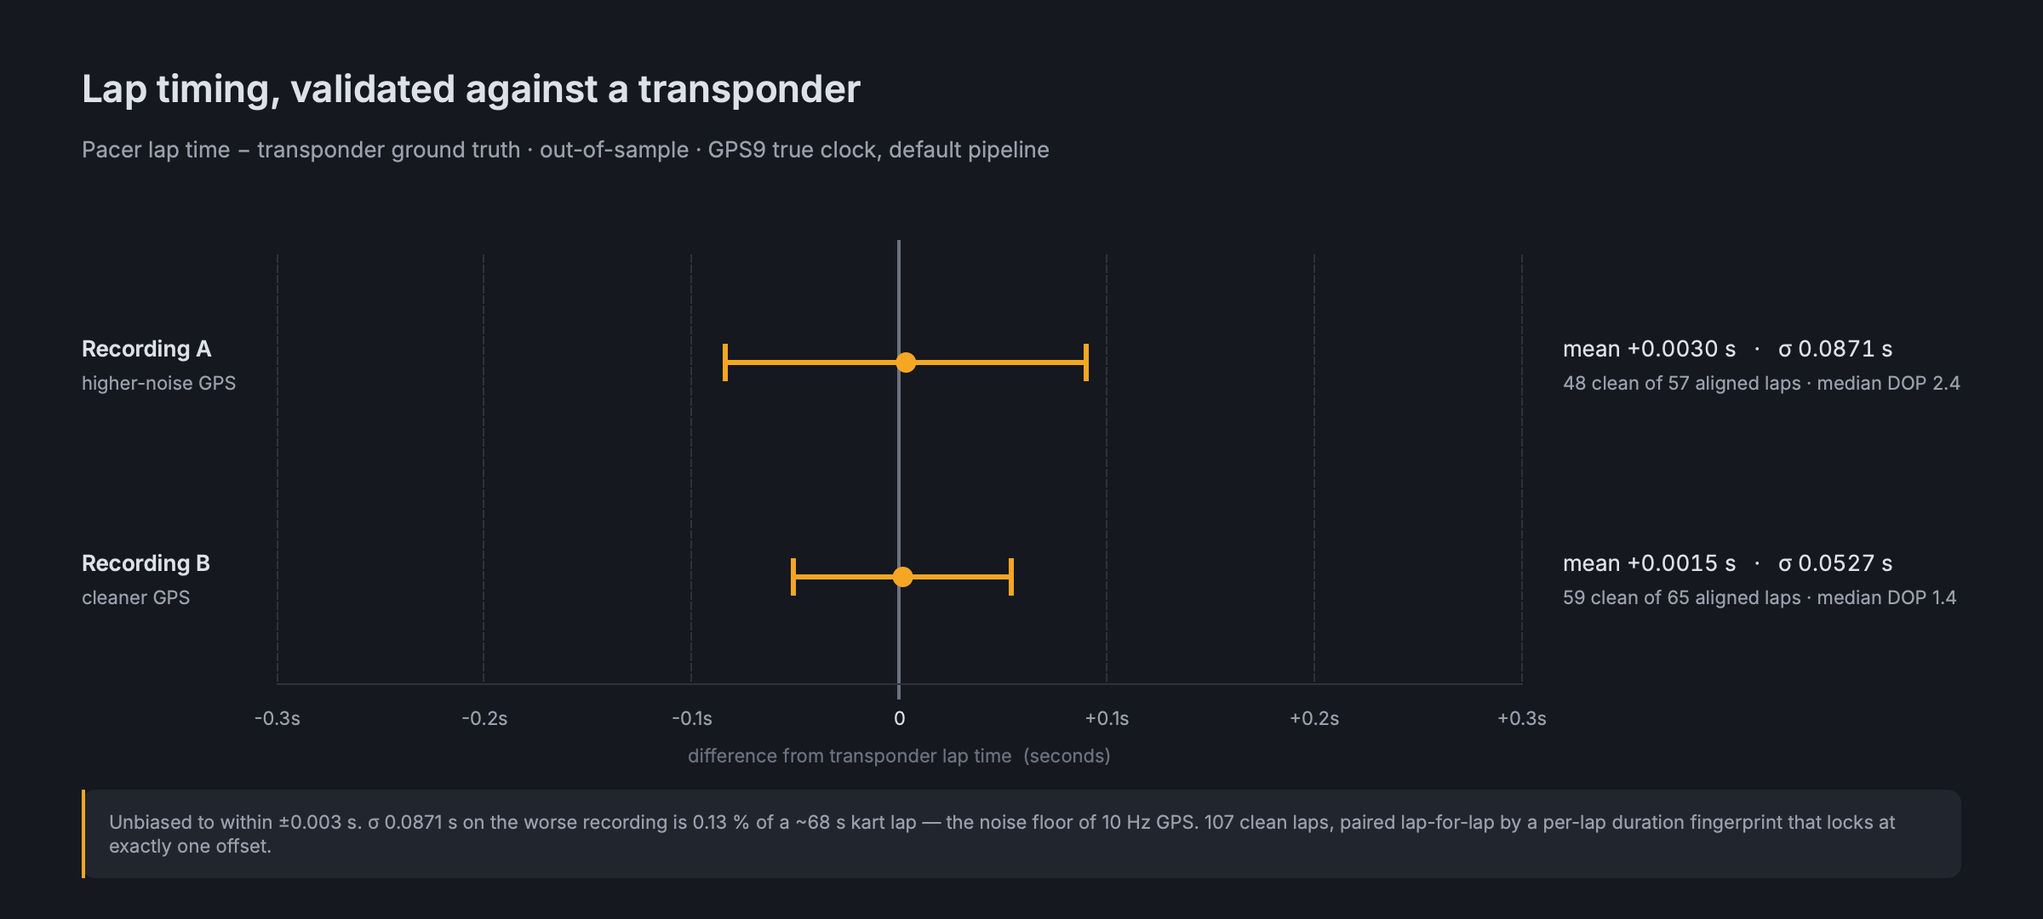
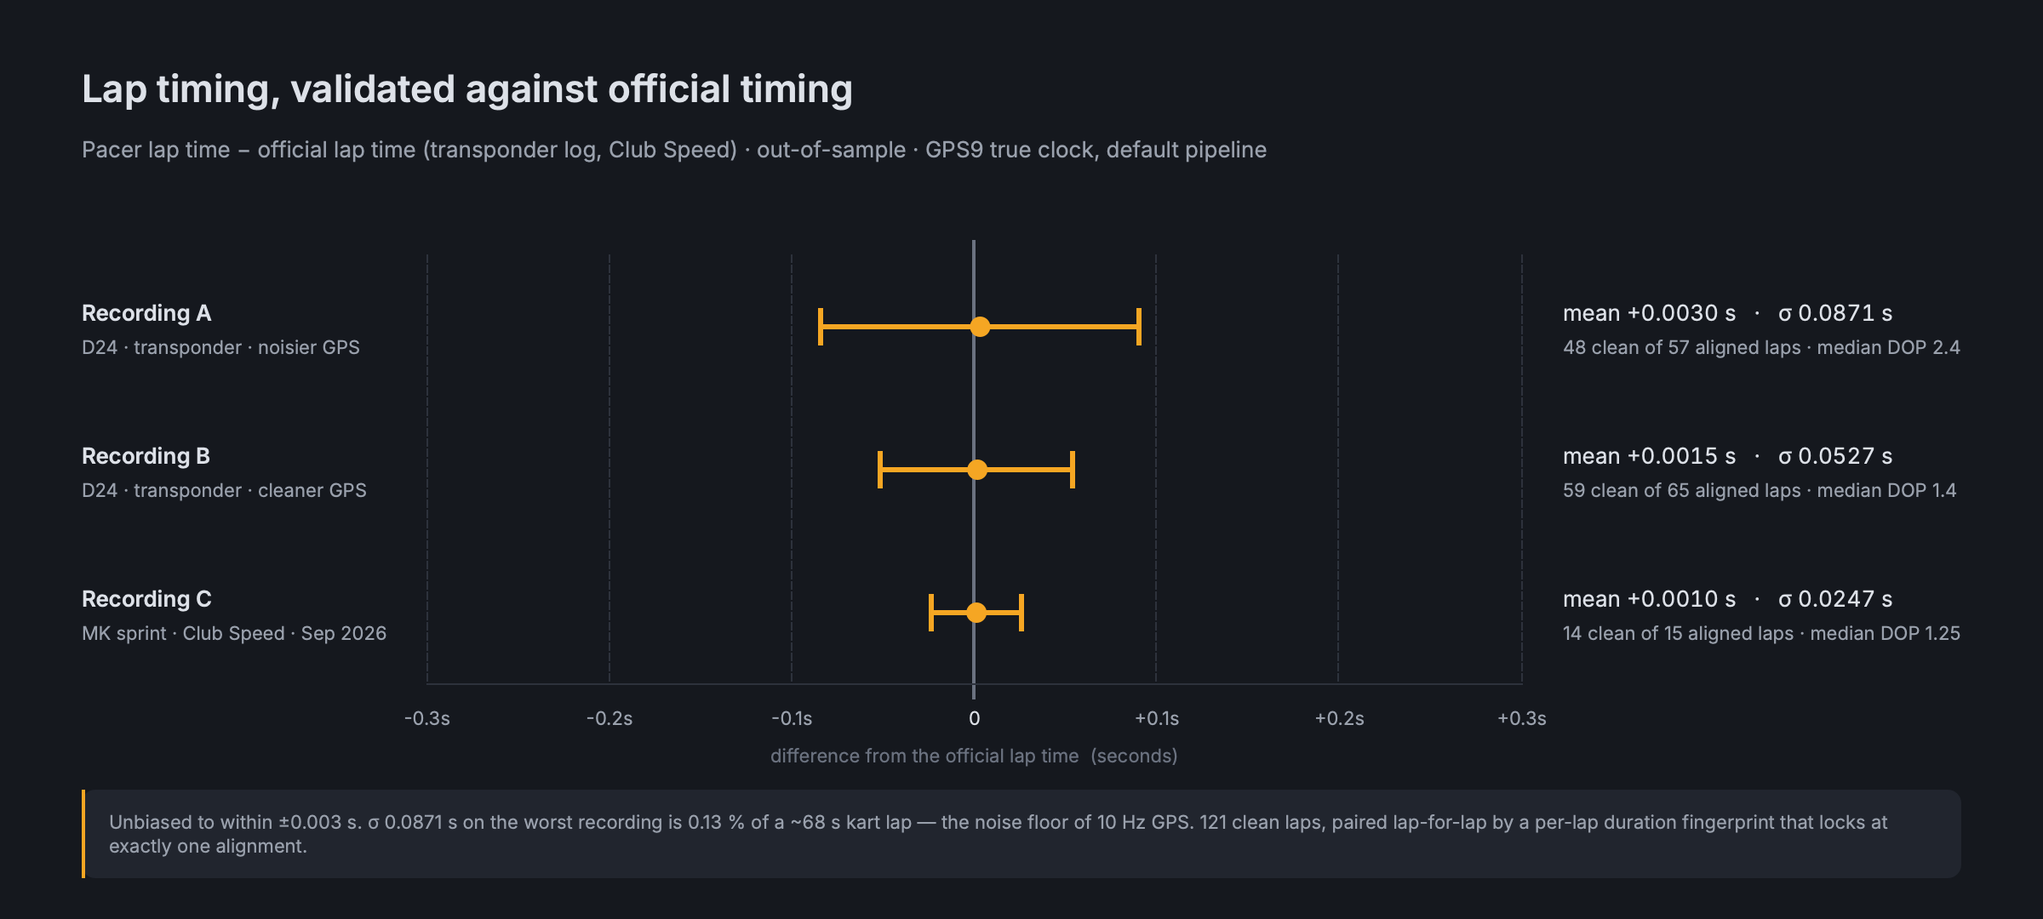
B3: ACCURACY.md row C — the MK sprint of 18 Sep 2026, locked to Club Speed timing
Re-proves the accuracy claim on footage that is on the machine: MK_18_09_26's
race stint locks to one row of the day's 11 public heats (122 windows, 99
driver rows) at r 0.9998, rival r 0.83 (margin +0.17), residual sigma 0.025 s
vs >= 1.10 s for every other window (44x). 14 clean of 15 aligned laps,
mean +0.0010 s, sigma 0.0247 s, median DOP 1.25. The qualifying run (one
lap under the cap) cannot lock and is not measured.

footage.accuracy_mk re-measures it and holds the table, the lock table and
the chart data (media_capture.ACCURACY) to it; accuracy.png regenerated.

diff --git a/tests/test_footage_checks.py b/tests/test_footage_checks.py
@@ -72,7 +72,7 @@ _AT_G1 = (
 # Every variable that points a check at footage. Unset in the negative control, so what it measures
 # is "no footage", not "whatever the developer running it happens to have exported".
 _FOOTAGE_ENVS = (dev_footage.RECORDING_ENV, dev_footage.REFERENCE_ENV,
-                 "PACER_IDEAL_TABLE_MP4", "PACER_MEASURED_FIGURES_DIR")
+                 "PACER_IDEAL_TABLE_MP4", "PACER_MEASURED_FIGURES_DIR", dev_footage.TIMING_ENV)
 # The variables the consolidation retired. A test reading one would be pointed nowhere.
 _RETIRED_ENVS = ("PACER_REAL_MP4", "PACER_D24_MEDIA")
 
@@ -519,6 +519,58 @@ def test_the_fast_loop_reports_a_present_default_skipped_and_still_runs_a_named_
           f"({len(_LOOKUPS)} lookups, {len(checks)} registrations)")
 
 
+def test_a_timing_sheet_is_found_like_footage():
+    """`_footage.timing_sheet` (B3) keeps these rules for the one input that is not a recording, the
+    official timing sheet an accuracy row was locked to: a default that is not here is a SKIP naming
+    it, `PACER_FOOTAGE_DEFAULTS=off` skips it towards test-footage, a sheet in a folder the operator
+    NAMED must be there. And its default reaches the MAIN checkout's gitignored folder from a linked
+    worktree — whose `.git` is a one-line pointer file — or a check reading one would skip in every
+    agent's worktree on the very Mac that holds the sheet."""
+    names = (dev_footage.TIMING_ENV, _footage.DEFAULTS_ENV)
+    saved = {k: os.environ.get(k) for k in names}
+    try:
+        with tempfile.TemporaryDirectory(prefix="pacer-b3-timing-") as d:
+            for k in names:
+                os.environ.pop(k, None)
+            main = os.path.join(d, "main")
+            tree = os.path.join(main, ".claude", "worktrees", "agent-x")
+            os.makedirs(os.path.join(main, ".git", "worktrees", "agent-x"))
+            os.makedirs(tree)
+            with open(os.path.join(tree, ".git"), "w", encoding="utf-8") as f:
+                f.write(f"gitdir: {main}/.git/worktrees/agent-x\n")
+            want = os.path.join(main, ".claude", "reference", "timing")
+            got = (dev_footage.timing_dir(tree), dev_footage.timing_dir(main))
+            assert got == (want, want), f"worktree and main checkout resolve {got}, not {want}"
+
+            for env, value, needle in ((None, None, "no-such-sheet.csv"),
+                                       (_footage.DEFAULTS_ENV, "off", "test-footage")):
+                if env:
+                    os.environ[env] = value
+                try:
+                    _footage.timing_sheet("no-such-sheet.csv")
+                except _footage.FootageMissing as exc:
+                    assert needle in exc.reason, exc.reason
+                else:
+                    raise AssertionError(f"an absent default sheet was not a skip ({env}={value})")
+
+            os.environ[dev_footage.TIMING_ENV] = d          # NAMED — the defaults' being off is moot
+            try:
+                _footage.timing_sheet("no-such-sheet.csv")
+            except AssertionError as exc:
+                assert "no-such-sheet.csv" in str(exc), exc
+            else:
+                raise AssertionError("a sheet missing from a NAMED folder skipped instead of failing")
+            open(os.path.join(d, "day.csv"), "w").close()
+            assert _footage.timing_sheet("day.csv") == os.path.join(d, "day.csv")
+    finally:
+        for k, v in saved.items():
+            if v is None:
+                os.environ.pop(k, None)
+            else:
+                os.environ[k] = v
+    print("test_a_timing_sheet_is_found_like_footage OK")
+
+
 def test_the_fast_loop_reports_footage_and_the_footage_task_runs_it():
     """Where the checks run, read off pyproject.toml the way pixi reads it. `test-fast` turns the
     defaults off and EXCLUDES no footage registration — an excluded test vanishes from ctest's
@@ -559,6 +611,7 @@ def _run_all():
     test_the_golden_dump_reads_the_same_variable_and_default()
     test_every_default_names_a_recording_still_on_the_machine()
     test_the_fast_loop_reports_a_present_default_skipped_and_still_runs_a_named_one()
+    test_a_timing_sheet_is_found_like_footage()
     test_the_fast_loop_reports_footage_and_the_footage_task_runs_it()
     print("\nfootage-check tests passed")
 

diff --git a/studio/dev/media_capture.py b/studio/dev/media_capture.py
@@ -167,18 +167,26 @@ OVERLAY_WIDTH = 1440
 # UNIQUENESS: every non-locked offset scores below 0.29, a margin of about +0.70
 # (`start-line-verification.md:89`). That is what the caption says instead.
 #
-# σ-as-a-percentage deliberately quotes the WORSE recording.
+# σ-as-a-percentage deliberately quotes the WORST recording.
+#
+# Rows A and B are D24's, recorded in June 2026 and not re-measurable (the footage has left the
+# machine). Row C is RE-MEASURED: the MK sprint of 18 Sep 2026, locked by the lock-only mode of
+# `_validate_wallclock.py` against the circuit's Club Speed sheet for the day. `footage.accuracy_mk`
+# (tests/test_validate_wallclock.py) re-runs it and fails if this row, docs/ACCURACY.md's row C or
+# its lock line stops being what the footage and the sheet give.
 LAP_S = 68.0                  # a representative kart lap at this circuit, for the σ-as-% claim
 ACCURACY = [
-    {"name": "Recording A", "note": "higher-noise GPS",
+    {"name": "Recording A", "note": "D24 · transponder · noisier GPS",
      "mean": 0.0030, "sigma": 0.0871, "clean": 48, "aligned": 57, "dop": 2.4},
-    {"name": "Recording B", "note": "cleaner GPS",
+    {"name": "Recording B", "note": "D24 · transponder · cleaner GPS",
      "mean": 0.0015, "sigma": 0.0527, "clean": 59, "aligned": 65, "dop": 1.4},
+    {"name": "Recording C", "note": "MK sprint · Club Speed · Sep 2026",
+     "mean": 0.0010, "sigma": 0.0247, "clean": 14, "aligned": 15, "dop": 1.25},
 ]
-ACCURACY_TITLE = "Lap timing, validated against a transponder"
-ACCURACY_SUB = ("Pacer lap time − transponder ground truth · out-of-sample · "
+ACCURACY_TITLE = "Lap timing, validated against official timing"
+ACCURACY_SUB = ("Pacer lap time − official lap time (transponder log, Club Speed) · out-of-sample · "
                 "GPS9 true clock, default pipeline")
-ACCURACY_AXIS = "difference from transponder lap time  (seconds)"
+ACCURACY_AXIS = "difference from the official lap time  (seconds)"
 
 OG_TAGLINE = "Race telemetry from your GoPro"
 OG_BODY = ("Transponder-validated true-clock lap timing, a synthesised ideal lap,\n"
@@ -580,7 +588,7 @@ def _text(p: QPainter, x: float, y: float, s: str, font: QFont, colour: str,
 
 
 def draw_accuracy(out_dir: str) -> str:
-    """The transponder chart: two intervals (mean ± σ) against a zero line.
+    """The accuracy chart: one interval (mean ± σ) per recording, against a zero line.
 
     A RANGE PLOT, not a categorical chart — one measure, one hue. The accent belongs to the
     MEASUREMENT and to nothing else: the zero reference is a neutral `text_muted` rule, the grid and
@@ -620,10 +628,10 @@ def draw_accuracy(out_dir: str) -> str:
     # title (it did, the first time the lap counts were corrected and the caption ran to two lines).
     worst = max(ACCURACY, key=lambda r: r["sigma"])
     total = sum(r["clean"] for r in ACCURACY)
-    claim = (f"Unbiased to within ±0.003 s. σ {worst['sigma']:.4f} s on the worse recording is "
+    claim = (f"Unbiased to within ±0.003 s. σ {worst['sigma']:.4f} s on the worst recording is "
              f"{worst['sigma'] / LAP_S * 100.0:.2f} % of a ~{LAP_S:.0f} s kart lap — the noise "
              f"floor of 10 Hz GPS. {total} clean laps, paired lap-for-lap by a per-lap duration "
-             f"fingerprint that locks at exactly one offset.")
+             f"fingerprint that locks at exactly one alignment.")
     inner_w = W - 2 * m - 2 * theme.SPACE_L
     flags = int(Qt.TextWordWrap | Qt.AlignLeft | Qt.AlignVCenter)
     text_h = fm_cap.boundingRect(QRect(0, 0, int(inner_w), 400), flags, claim).height()

diff --git a/tests/test_validate_wallclock.py b/tests/test_validate_wallclock.py
@@ -282,8 +282,11 @@ def _num(cell: str) -> float:
 
 def _table_row(text: str, head: str, after: str) -> list[str]:
     """The cells of the first table row starting `| <head>` below the line containing `after`."""
-    tail = text[text.index(after):]
-    line = next(ln for ln in tail.splitlines() if ln.startswith(f"| {head}"))
+    at = text.find(after)
+    line = next((ln for ln in text[max(at, 0):].splitlines()
+                 if ln.lstrip().startswith(f"| {head}")), None)
+    assert at >= 0 and line, (f"docs/ACCURACY.md has no `| {head}` row under {after!r} — the "
+                              "table this check holds to the footage is gone or reworded")
     return [c.strip() for c in line.strip().strip("|").split("|")]
 
 

diff --git a/docs/ACCURACY.md b/docs/ACCURACY.md
@@ -1,33 +1,36 @@
 # How accurate is Pacer's lap timing — and how do we know?
 
-![Pacer lap-time error vs a real transponder: σ 0.053 s and 0.087 s over 107 clean laps across two recordings, mean error within ±0.003 s](media/accuracy.png)
+![Pacer lap-time error vs official timing: σ 0.025 s, 0.053 s and 0.087 s over 121 clean laps across three recordings, mean error within ±0.003 s](media/accuracy.png)
 
-**Pacer's lap times are validated out-of-sample against a real transponder** — the kind of hard
-ground truth a race series uses to score a session. Over **107 clean laps** across two recordings,
-the per-lap spread against that ground truth is **σ 0.053 s and 0.087 s**, and the timing is
-essentially **unbiased** (mean error within **±0.003 s**). On a ~68 s kart lap the worse
+**Pacer's lap times are validated out-of-sample against official timing** — the kind of hard
+ground truth a race series or a circuit scores a session with: a real transponder log, and a
+circuit's own published timing sheet. Over **121 clean laps** across three recordings, the per-lap
+spread against that ground truth is **σ 0.025 s, 0.053 s and 0.087 s**, and the timing is
+essentially **unbiased** (mean error within **±0.003 s**). On a ~68 s kart lap the worst
 recording's σ is about **0.13%**. That is at the noise floor of 10 Hz GPS: the remaining error is
 per-fix positional noise on the samples that straddle the finish line, and we can show — with data
 — that it is irreducible from the streams a GoPro records.
 
-That is a modest sample, and it is the honest one: 107 is the number of laps actually compared,
+That is a modest sample, and it is the honest one: 121 is the number of laps actually compared,
 not the span of lap IDs they occupied in a 24-hour transponder log.
 
 ## The validated numbers
 
-Two GoPro recordings of the same kart, each holding one session, timed by Pacer's **default
-shipping pipeline** and compared lap-for-lap against the transponder. Both are **D24**: the
-Daytona 24-hour race at Milton Keynes, 23–24 May 2026 — recording A is `GX0*0060`, B is `GX0*0062`.
-The validation was run in June 2026 and the table is that measurement, as recorded. The Desktop
-recordings Pacer has been developed against since D24 left the development machine have no
-transponder log, so it has not been repeated on them. The residual is
-`pacer lap time − transponder lap time`, measured only on **clean** laps — racing laps (≤ 72 s on
-both clocks) with no GPS dropout.
+Three GoPro recordings, all at Daytona Milton Keynes on its anticlockwise layout, each timed by
+Pacer's **default shipping pipeline** and compared lap-for-lap against official timing. A and B
+are **D24**, the Daytona 24-hour race of 23–24 May 2026 — A is `GX0*0060`, B is `GX0*0062` —
+checked against the race's transponder log in June 2026; their rows are that measurement, as
+recorded. C is a sprint race on **18 September 2026** (`MK_18_09_26`, two chapters), validated in
+September 2026 against the circuit's own **Club Speed** timing, whose heat pages are public — on
+footage that is on the development machine, by one command a real-footage check re-runs. The
+residual is `pacer lap time − official lap time`, measured only on **clean** laps — racing laps
+(≤ 72 s on both clocks) with no GPS dropout.
 
-| Recording | GPS quality (median DOP) | Laps aligned | Clean laps measured | Mean error | σ (std) |
-|-----------|--------------------------|--------------|---------------------|------------|---------|
-| **A** — higher-noise GPS | 2.4 | 57 (transponder laps 302–358) | 48 | **+0.0030 s** | **0.0871 s** |
-| **B** — cleaner GPS | 1.4 | 65 (transponder laps 856–920) | 59 | **+0.0015 s** | **0.0527 s** |
+| Recording | Ground truth | GPS quality (median DOP) | Laps aligned | Clean laps measured | Mean error | σ (std) |
+|-----------|--------------|--------------------------|--------------|---------------------|------------|---------|
+| **A** — D24, higher-noise GPS | transponder log, June 2026 | 2.4 | 57 (transponder laps 302–358) | 48 | **+0.0030 s** | **0.0871 s** |
+| **B** — D24, cleaner GPS | transponder log, June 2026 | 1.4 | 65 (transponder laps 856–920) | 59 | **+0.0015 s** | **0.0527 s** |
+| **C** — MK sprint, 18 Sep 2026 | Club Speed timing, September 2026 | 1.25 | 15 (sheet laps 2–16) | 14 | **+0.0010 s** | **0.0247 s** |
 
 Those are lap *counts*. An earlier version of this page printed "300+" and "850+" for the same two
 rows: those were the transponder log's lap **ID ranges** — it runs continuously for a 24-hour race
@@ -35,10 +38,20 @@ across many drivers — not the number of laps compared. The aligned count is th
 range (358 − 302 + 1 = 57; 920 − 856 + 1 = 65), and the clean count drops the GPS-dropout and
 non-racing laps on top of that. The correction is a factor of ten, in the unflattering direction.
 
-The two rows tell the whole story: **recording-level GPS quality sets the floor.** Recording B has
+Row C's window is the race itself: its 15 laps are laps 2–16 of one driver's row on the sheet (lap
+1 there runs from the start, before the first line crossing a recording can time). The one aligned
+lap left out of the clean 14 is the race's opening flying lap, over the 72 s racing cap, and it
+reads −0.348 s; the 14 clean residuals all lie between −0.033 s and +0.044 s. The recording also
+holds a four-lap qualifying run, with a single lap under the cap — too short a fingerprint to lock,
+so it is not measured at all. The receiver gated 10.4% of the recording's fixes, every one of them
+in its first seven minutes while it acquired; inside the race none were gated, and the median DOP
+there was 1.15.
+
+The rows tell the whole story: **recording-level GPS quality sets the floor.** Recording B has
 roughly half the spread of A for one reason only — its GPS was cleaner (median DOP 1.4 vs 2.4, ~1%
 vs ~4% of fixes gated). Nothing in the algorithm distinguishes the two; the hardware's fix quality
-does. Both are unbiased to well under a hundredth of a second.
+does. C, with the lowest median DOP of the three, has the smallest spread. All three are unbiased
+to well under a hundredth of a second.
 
 ## How it's measured
 
@@ -54,29 +67,53 @@ does. Both are unbiased to well under a hundredth of a second.
   stream itself (`studio/load.py::_used_gps9_trueclock`), not off a model name.
 - **Default pipeline, nothing special.** These numbers come from the shipping configuration —
   GPS9 true-clock, clock rate = 1.0, boxcar smoothing w=13 — not a tuned-for-the-benchmark variant.
-- **Auto-locked to the transponder — and the lock is *unique*.** No lap is hand-matched. The app's
-  per-lap *duration* sequence is correlated against every candidate contiguous window of the
-  transponder log and the alignment is taken at the maximum. Because that offset is *chosen* to
+  Row C was timed on the built-in Daytona Milton Keynes start/finish line, exactly as a first open
+  of the recording times it; its own best-fit clock rate comes out at 0.999983, 17 ppm from 1.
+- **Auto-locked to the official timing — and the lock is *unique*.** No lap is hand-matched. The
+  app's per-lap *duration* sequence is correlated against every candidate contiguous window of the
+  ground truth and the alignment is taken at the maximum. Because that window is *chosen* to
   maximise r, the r value at the winner is not an independent accuracy statistic — the **margin
-  over every rival offset is**. The per-lap duration fingerprint matches at **r ≥ 0.99 at exactly
-  one offset and below 0.29 at every other** (a margin of ≈ +0.70 on recording A): the session
-  Pacer timed is provably the session the transponder timed. Three further signals bound the same
-  window independently — the GPS9 wall clock, elapsed time since the green flag, and the long
-  pit/driver-change laps that bracket the stint.
-- **Reproducible — on recording B, given its footage.** The harness is
-  [`studio/dev/_validate_wallclock.py`](../studio/dev/_validate_wallclock.py). The transponder CSV
-  is a private reference input and is **never committed** — the method is public; the ground-truth
-  file stays out of the repo. Recording B's footage is intact and its row can be re-derived
-  end-to-end, but since September 2026 it is kept off the development machine, so it is not
-  re-derived in routine work. Recording A's footage no longer exists (a tool overwrote it),
-  so row A is a historical measurement, reported here as it was recorded in
+  over every rival window is**. Against the transponder log the fingerprint matches at **r ≥ 0.99
+  at exactly one offset and below 0.29 at every other** (a margin of ≈ +0.70 on recording A), and
+  three further signals bound the same window independently — the GPS9 wall clock, elapsed time
+  since the green flag, and the long pit/driver-change laps that bracket the stint. A sprint has
+  none of those, and its sheet holds every driver of every heat that day, so for row C the
+  fingerprint is tried against all of them:
+
+  | Recording | Searched | r at the lock | Best rival's r | Margin | Residual σ, lock vs nearest rival |
+  |-----------|----------|---------------|----------------|--------|-----------------------------------|
+  | **A** | one transponder log | 0.992 | below 0.29 | **≈ +0.70** | not recorded |
+  | **B** | one transponder log | 0.997 | not recorded | not recorded | not recorded |
+  | **C** | 122 windows of 99 driver rows, 11 heats | 0.9998 | 0.83 | **+0.17** | 0.025 s vs 1.10 s — **44×** |
+
+  C's margin is small for a reason that is not ambiguity: every driver in one race shares its slow
+  opening laps and its yellows, so over 14 laps another driver in the same race reaches r = 0.83 —
+  and r is blind to level and scale, so it cannot see that driver missing every lap by seconds. The
+  residual σ can: every window but one leaves at least 1.10 s, the lock leaves 0.025 s. The rule
+  that calls a sprint lock unique — the best-r window also leaves the smallest residual σ, r ≥ 0.95,
+  and every other window's σ is at least 3× the lock's — was committed to the harness before this
+  sheet was first locked against it. Take the locked driver's row out of the sheet and the same
+  laps lock onto nothing.
+- **Reproducible — by one command, on footage on the development machine.** The harness is
+  [`studio/dev/_validate_wallclock.py`](../studio/dev/_validate_wallclock.py): given a recording
+  and a timing sheet, and no race start, it runs the lock above and reports each stint's residual
+  only if it locks. [`studio/dev/clubspeed.py`](../studio/dev/clubspeed.py) turns the circuit's saved
+  heat pages into that sheet, and never reads a driver's name off them. Row C is re-measured by the
+  `footage.accuracy_mk` check on every `pixi run test-footage`, which fails if any figure above
+  moves. The ground truth is never committed — the method is public; the transponder CSV and the
+  timing sheets (other drivers' lap times) stay out of the repo. Recording B's footage is intact
+  but kept off the development machine since September 2026; recording A's no longer exists (a tool
+  overwrote it). Rows A and B are historical measurements, reported as they were recorded in
   [`studio/docs/`](../studio/docs/gps-accuracy-research.md) at the time.
+- **Still to come: Sandown Park**, the other circuit the working footage comes from, run clockwise.
+  It is timed on Club Speed too, but its heat pages sit behind a sign-in, so its three recordings
+  have no row until the owner fetches their sheets.
 
 ## Three findings that show where the limit actually is
 
 The interesting part of this work is not the headline number — it's that we went looking for ways to
 push it lower and found, with out-of-sample evidence, that there is nothing left to win on timing.
-Three results explain why.
+Three results explain why. All three were measured on the two D24 recordings, A and B.
 
 **1. The residual is the raw GPS positional-noise floor.** The remaining error is dominated by
 per-fix positional noise on the (present, clean) samples that straddle the finish line. We confirmed
@@ -115,6 +152,7 @@ with every technique evaluated and rejected on evidence, is in
 
 Most consumer and phone telemetry tools time laps off the **video or sample clock**, which drifts on
 the order of 0.1% — enough to quietly bias every lap in a session. Pacer times off the camera's own
-**GPS true-clock** and has **validated that timing against a real transponder**, out-of-sample, on
-footage of the kind you already own. That is the defensible differentiator: transponder-grade lap
+**GPS true-clock** and has **validated that timing against a real transponder and a circuit's own
+official timing**, out-of-sample, on footage of the kind you already own. That is the defensible
+differentiator: transponder-grade lap
 timing, from a GoPro you already have, for free — with the receipts to prove it.
